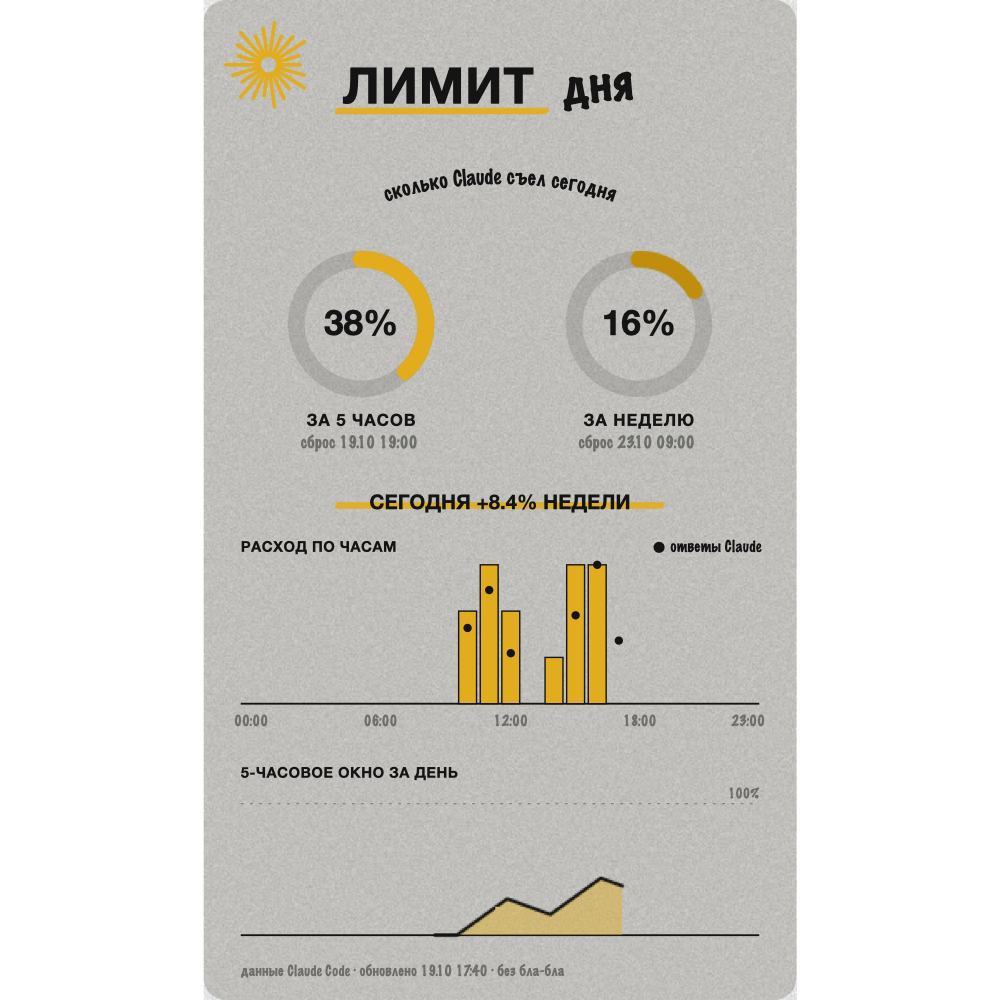
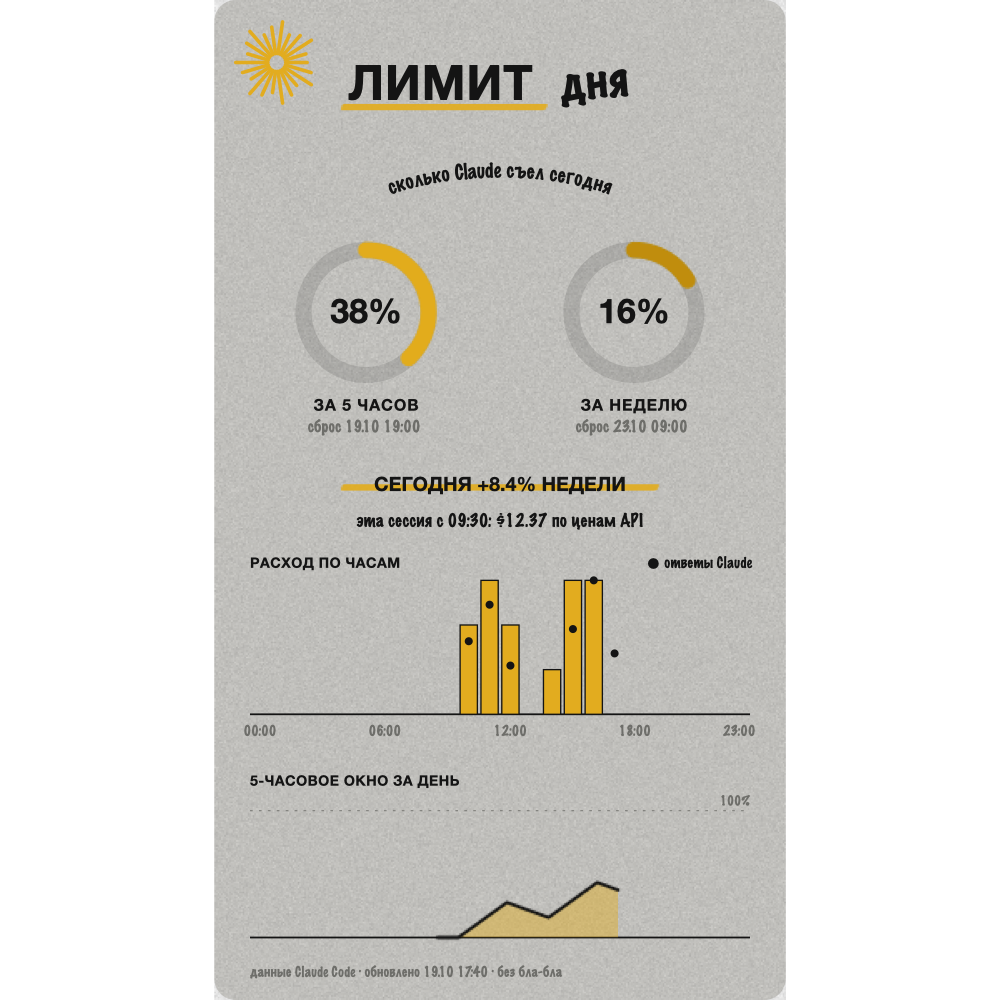
Стоимость текущей сессии на панели и в строке состояния

diff --git a/hooks/register.tsx b/hooks/register.tsx
@@ -94,7 +94,7 @@ const chart = (t: Today) => {
 
   const bx = 40
   const bw = (W - 80) / 24
-  const by = 760
+  const by = 800
   const bh = 150
   const bars = spend
     .map((v, h) => {
@@ -106,6 +106,9 @@ const chart = (t: Today) => {
       return `<rect x="${bx + h * bw + 2}" y="${by - hgt}" width="${bw - 4}" height="${Math.max(hgt, v > 0 ? 3 : 0)}" fill="${C.yellow}" stroke="${C.ink}" stroke-width="1.5"/>${dot}`
     })
     .join('')
+  const sessionLine = t.session
+    ? `<text x="${W / 2}" y="${590}" text-anchor="middle" font-family="${HAND}" font-size="19" fill="${C.ink}">эта сессия с ${pad(new Date(t.session.startedAt).getHours())}:${pad(new Date(t.session.startedAt).getMinutes())}: $${t.session.usd.toFixed(2)} по ценам API</text>`
+    : ''
   const first = t.samples[0]
   const since = first ? `${pad(new Date(first.t).getHours())}:${pad(new Date(first.t).getMinutes())}` : ''
   const quiet = spentToday === 0
@@ -122,15 +125,15 @@ const chart = (t: Today) => {
     .filter(s => s.five !== null)
     .map(s => {
       const x = bx + ((s.t - day0.getTime()) / 86400000) * (W - 80)
-      const y = 1010 - ((s.five as number) / 100) * 140
+      const y = 1050 - ((s.five as number) / 100) * 140
       return `${x.toFixed(1)},${y.toFixed(1)}`
     })
   const line = pts.length > 1
-    ? `<polyline points="${bx},1010 ${pts.join(' ')} ${(pts[pts.length - 1] ?? '').split(',')[0]},1010" fill="${C.yellow}" opacity="0.45" stroke="none"/>
+    ? `<polyline points="${bx},1050 ${pts.join(' ')} ${(pts[pts.length - 1] ?? '').split(',')[0]},1050" fill="${C.yellow}" opacity="0.45" stroke="none"/>
        <polyline points="${pts.join(' ')}" fill="none" stroke="${C.ink}" stroke-width="3.5" stroke-linejoin="round" stroke-linecap="round" filter="url(#rough)"/>`
-    : `<text x="${W / 2}" y="950" text-anchor="middle" font-family="${HAND}" font-size="18" fill="${C.grey}">линия появится после нескольких ответов Claude</text>`
+    : `<text x="${W / 2}" y="990" text-anchor="middle" font-family="${HAND}" font-size="18" fill="${C.grey}">линия появится после нескольких ответов Claude</text>`
 
-  return `<svg xmlns="http://www.w3.org/2000/svg" viewBox="0 0 ${W} 1080">
+  return `<svg xmlns="http://www.w3.org/2000/svg" viewBox="0 0 ${W} 1120">
   <defs>
     <filter id="grain" x="0" y="0" width="100%" height="100%">
       <feTurbulence type="fractalNoise" baseFrequency="0.9" numOctaves="2" stitchTiles="stitch"/>
@@ -139,8 +142,8 @@ const chart = (t: Today) => {
     <filter id="rough"><feTurbulence type="fractalNoise" baseFrequency="0.04" numOctaves="2" seed="3"/><feDisplacementMap in="SourceGraphic" scale="3"/></filter>
     <path id="arc" d="M 130 262 A 200 92 0 0 1 510 262"/>
   </defs>
-  <rect width="${W}" height="1080" rx="24" fill="${C.paper}"/>
-  <rect width="${W}" height="1080" rx="24" filter="url(#grain)"/>
+  <rect width="${W}" height="1120" rx="24" fill="${C.paper}"/>
+  <rect width="${W}" height="1120" rx="24" filter="url(#grain)"/>
   ${sun(70, 70)}
   <text font-family="${HAND}" font-size="22" fill="${C.ink}"><textPath href="#arc" startOffset="50%" text-anchor="middle">сколько Claude съел сегодня</textPath></text>
   ${brush(150, 122, 215)}
@@ -150,16 +153,17 @@ const chart = (t: Today) => {
   ${ring(470, 350, 70, week, C.yellowDeep, 'ЗА НЕДЕЛЮ', `сброс ${timeOf(last?.weekReset ?? null)}`)}
   ${brush(150, 548, 340)}
   <text x="${W / 2}" y="550" text-anchor="middle" font-family="${BOLD}" font-size="22" font-weight="900" fill="${C.ink}">СЕГОДНЯ +${spentToday}% НЕДЕЛИ</text>
+  ${sessionLine}
   <text x="40" y="${by - bh - 14}" font-family="${BOLD}" font-size="16" font-weight="900" fill="${C.ink}" letter-spacing="0.5">РАСХОД ПО ЧАСАМ</text>
   <text x="${W - 40}" y="${by - bh - 14}" text-anchor="end" font-family="${HAND}" font-size="16" fill="${C.ink}">● ответы Claude</text>
   <line x1="${bx}" y1="${by}" x2="${W - 40}" y2="${by}" stroke="${C.ink}" stroke-width="2"/>
   ${bars}${hours}${quiet}
-  <text x="40" y="840" font-family="${BOLD}" font-size="16" font-weight="900" fill="${C.ink}" letter-spacing="0.5">5-ЧАСОВОЕ ОКНО ЗА ДЕНЬ</text>
-  <line x1="${bx}" y1="868" x2="${W - 40}" y2="868" stroke="${C.grey}" stroke-dasharray="3 7"/>
-  <text x="${W - 40}" y="862" text-anchor="end" font-family="${HAND}" font-size="14" fill="${C.grey}">100%</text>
-  <line x1="${bx}" y1="1010" x2="${W - 40}" y2="1010" stroke="${C.ink}" stroke-width="2"/>
+  <text x="40" y="880" font-family="${BOLD}" font-size="16" font-weight="900" fill="${C.ink}" letter-spacing="0.5">5-ЧАСОВОЕ ОКНО ЗА ДЕНЬ</text>
+  <line x1="${bx}" y1="908" x2="${W - 40}" y2="908" stroke="${C.grey}" stroke-dasharray="3 7"/>
+  <text x="${W - 40}" y="902" text-anchor="end" font-family="${HAND}" font-size="14" fill="${C.grey}">100%</text>
+  <line x1="${bx}" y1="1050" x2="${W - 40}" y2="1050" stroke="${C.ink}" stroke-width="2"/>
   ${line}
-  <text x="40" y="1054" font-family="${HAND}" font-size="15" fill="${C.grey}">данные Claude Code · обновлено ${timeOf(last ? new Date(last.t).toISOString() : null)} · без бла-бла</text>
+  <text x="40" y="1094" font-family="${HAND}" font-size="15" fill="${C.grey}">данные Claude Code · обновлено ${timeOf(last ? new Date(last.t).toISOString() : null)} · без бла-бла</text>
 </svg>`
 }
 
@@ -184,10 +188,13 @@ async function record($: EngineInterface, limits: SessionRateLimit[]) {
   }
   let saved = (await $.store.get(`day-${day}`)) as Today | undefined
   if (!saved || saved.day !== day) saved = empty(day)
-  const next: Today = { ...saved, samples: [...saved.samples, sample].slice(-2000) }
+  const usage = await $.session.usage()
+  const session = usage.cost ? { usd: usage.cost.usd, startedAt: usage.startedAt } : saved.session
+  const next: Today = { ...saved, samples: [...saved.samples, sample].slice(-2000), session }
   await $.store.set(`day-${day}`, next)
   await update($, today, () => next)
-  $.ui.status(`Лимит: 5 ч ${Math.round(sample.five ?? 0)}% · неделя ${Math.round(sample.week ?? 0)}%`)
+  const usd = session ? ` · сессия $${session.usd.toFixed(2)}` : ''
+  $.ui.status(`Лимит: 5 ч ${Math.round(sample.five ?? 0)}% · неделя ${Math.round(sample.week ?? 0)}%${usd}`)
 }
 
 
@@ -230,7 +237,7 @@ export const register: Register = on => {
     const last = t?.samples[t.samples.length - 1]
     if (!last) return { text: 'Данных о лимитах пока нет: они появятся после первого ответа Claude.' }
     return {
-      text: `5 часов: ${bar(last.five ?? 0)} ${Math.round(last.five ?? 0)}% (сброс ${timeOf(last.fiveReset)})\nНеделя:  ${bar(last.week ?? 0)} ${Math.round(last.week ?? 0)}% (сброс ${timeOf(last.weekReset)})`,
+      text: `5 часов: ${bar(last.five ?? 0)} ${Math.round(last.five ?? 0)}% (сброс ${timeOf(last.fiveReset)})\nНеделя:  ${bar(last.week ?? 0)} ${Math.round(last.week ?? 0)}% (сброс ${timeOf(last.weekReset)})${t?.session ? `\nЭта сессия: $${t.session.usd.toFixed(2)} по ценам API` : ''}`,
     }
   })
 
@@ -249,6 +256,7 @@ export const register: Register = on => {
           <Text bold color={C.pink}>ЛИМИТ ДНЯ</Text>
           <Text>5 часов  <Text color={C.pink}>{bar(last.five ?? 0)}</Text> {Math.round(last.five ?? 0)}%  сброс {timeOf(last.fiveReset)}</Text>
           <Text>Неделя   <Text color={C.pinkSoft}>{bar(last.week ?? 0)}</Text> {Math.round(last.week ?? 0)}%  сброс {timeOf(last.weekReset)}</Text>
+          {t.session ? <Text>Эта сессия: ${t.session.usd.toFixed(2)} по ценам API</Text> : null}
           <Text dimColor>По часам 00→23</Text>
           <Text color={C.pink}>{spark}</Text>
         </Box>

diff --git a/tests/limit.test.ts b/tests/limit.test.ts
@@ -11,6 +11,7 @@ test('показывает лимиты за 5 часов и неделю', asyn
     mem.set(key, value)
     return { value: undefined } as never
   })
+  on('session.usage', async () => ({ value: { startedAt: Date.parse('2026-10-19T10:00:00Z'), context: { window: 200000 }, rateLimits: [], cost: { usd: 1.23 } } }) as never)
   on('ui.status', async () => ({ value: undefined }) as never)
   on('session.measure', async ($, e) => ({ changed: e.changed }))
 
@@ -27,4 +28,5 @@ test('показывает лимиты за 5 часов и неделю', asyn
   const text = JSON.stringify(res)
   expect(text).toContain('34%')
   expect(text).toContain('13%')
+  expect(text).toContain('$1.23')
 })

diff --git a/types/index.d.ts b/types/index.d.ts
@@ -19,6 +19,8 @@ export type Today = {
   samples: Sample[]
   /** Ответов Claude за каждый час дня (24 ячейки). */
   turnsByHour: number[]
+  /** Текущая сессия: условная стоимость с ее начала и когда она началась. */
+  session?: { usd: number; startedAt: number }
 }
 
 declare module 'claude-code' {

diff --git a/README.md b/README.md
@@ -11,7 +11,8 @@
 - **Расход по часам**: на сколько вырос недельный лимит за каждый час дня.
 - **Ответы Claude** по часам (черные точки).
 - **5-часовое окно** в течение дня (линия).
-- Строку под полем ввода: «Лимит: 5 ч 34% · неделя 12%».
+- **Стоимость текущей сессии** с ее начала, по ценам API (для сравнения сессий между собой).
+- Строку под полем ввода: «Лимит: 5 ч 34% · неделя 12% · сессия $3.10».
 
 Цифры берутся из самого Claude Code, это те же данные, что в настройках лимитов.
 Мод запоминает их по ходу дня, поэтому графики заполняются с момента установки.
